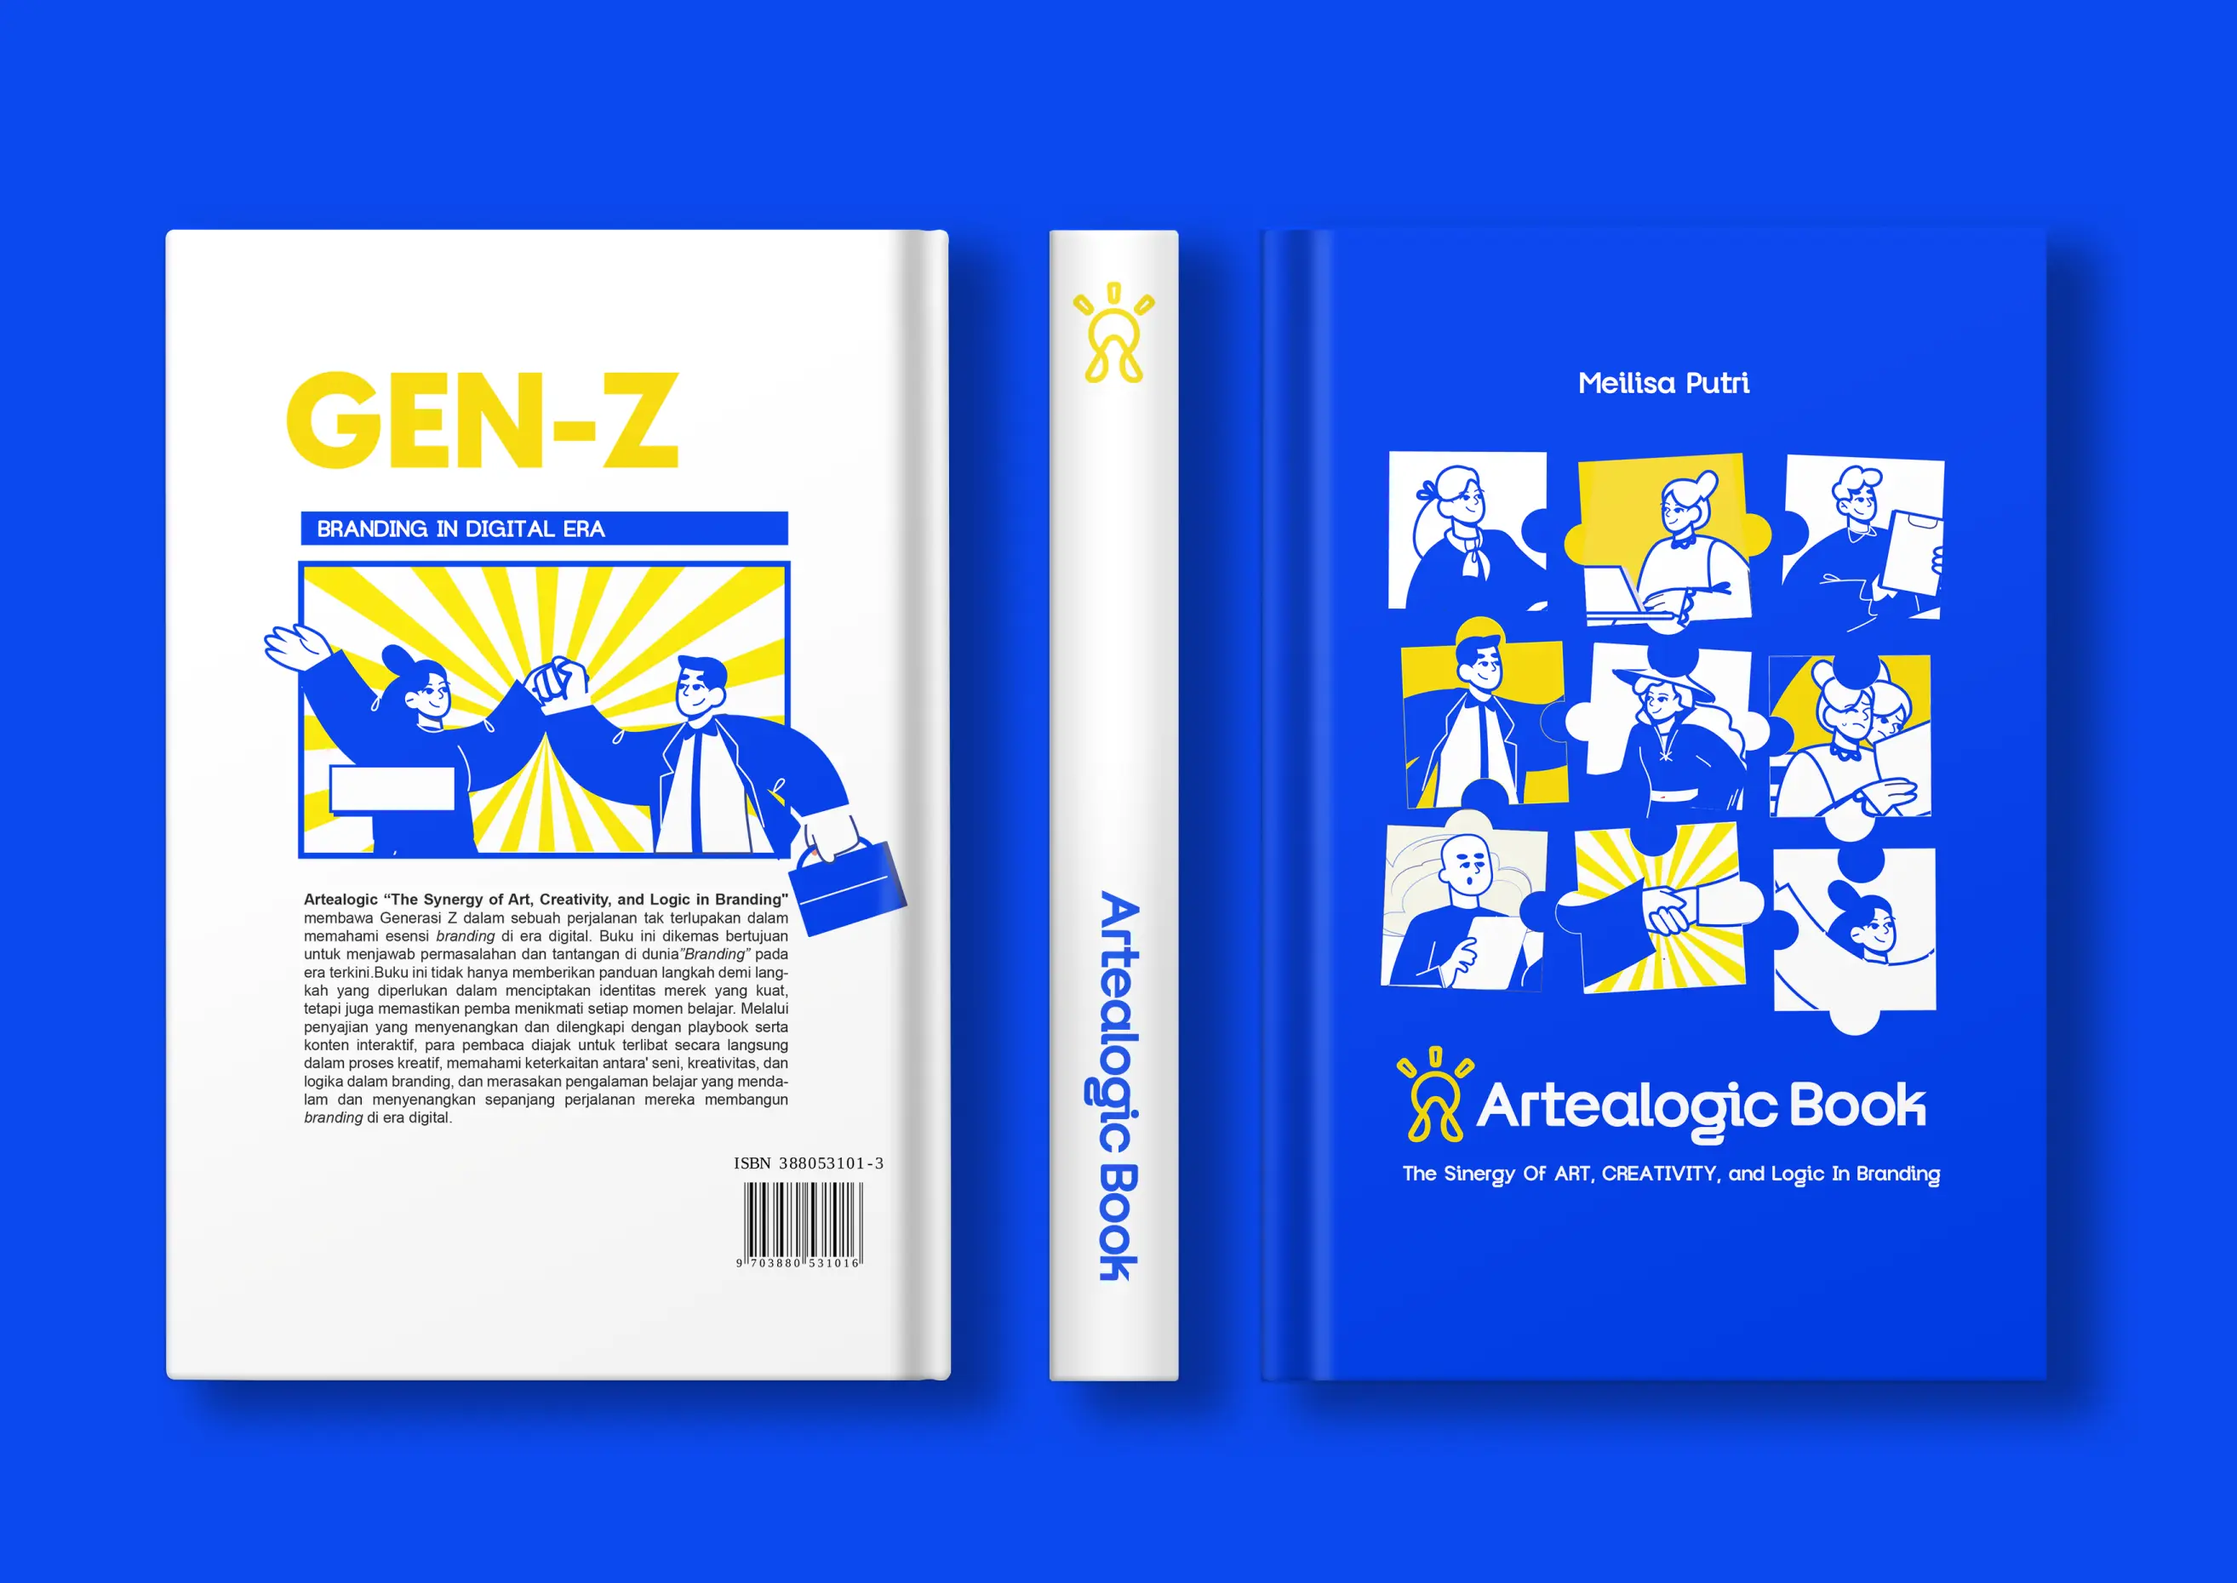
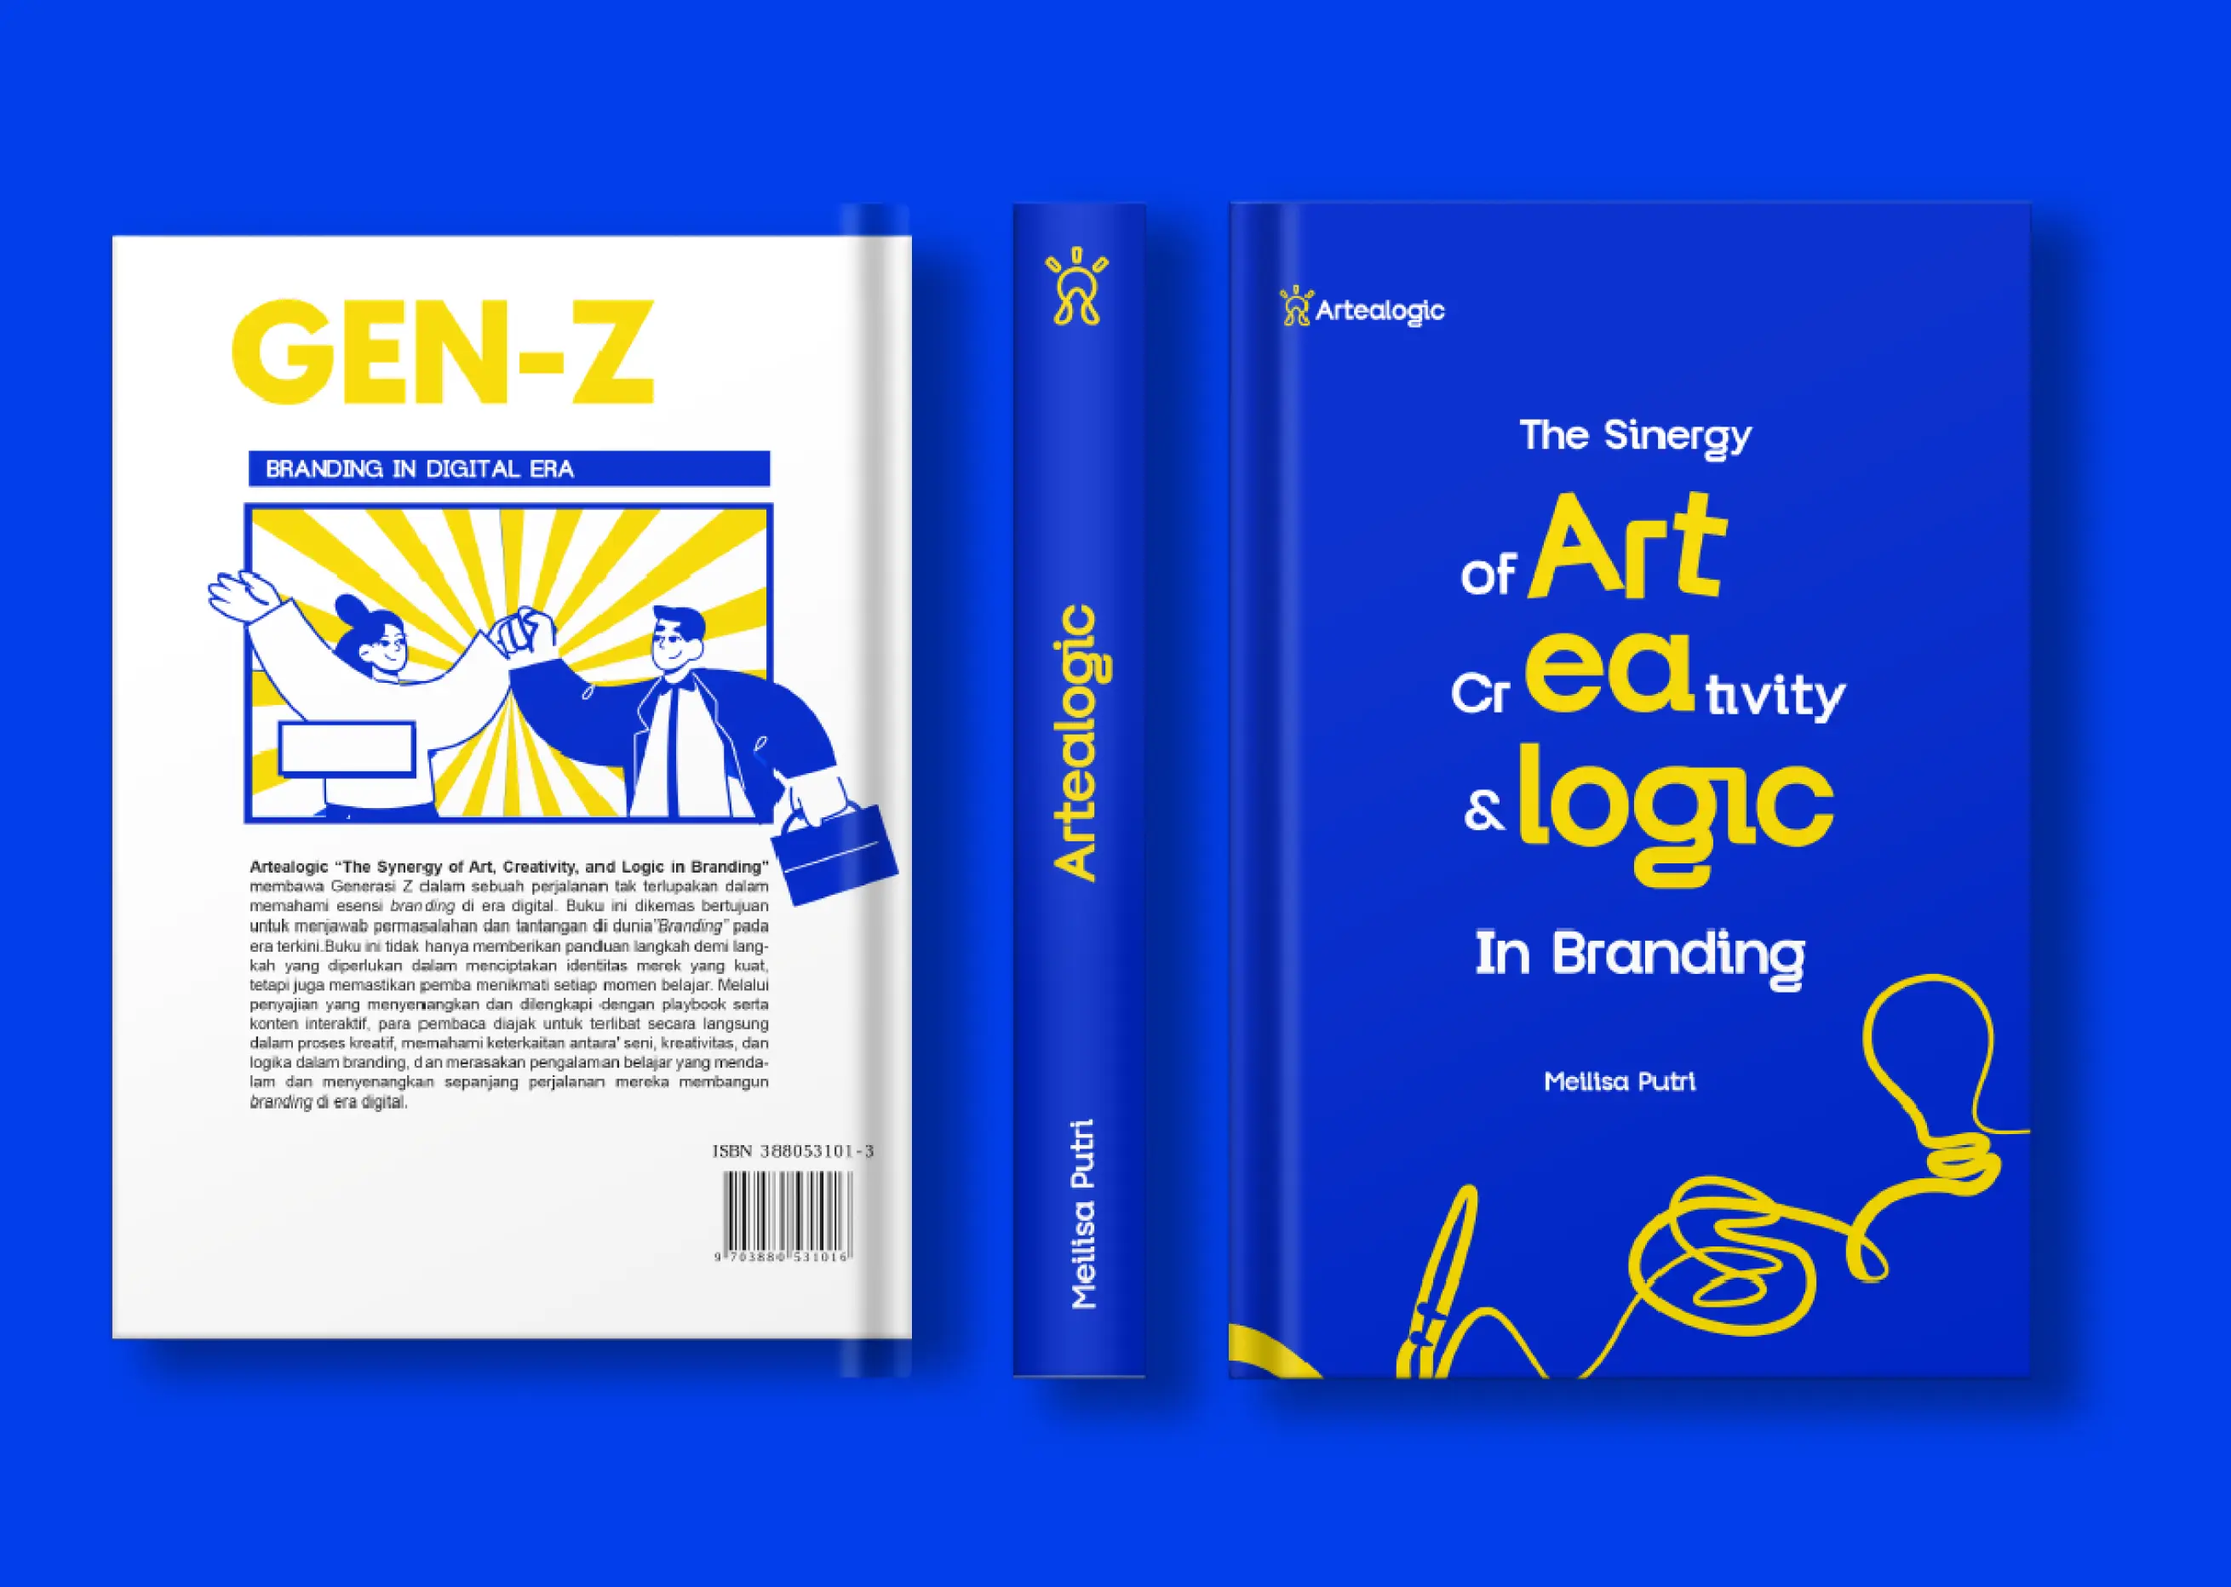
Change book picture

diff --git a/artealogic-book.html b/artealogic-book.html
@@ -1,112 +1,182 @@
 <!DOCTYPE html>
 <html lang="en">
-<head>
-    <meta charset="UTF-8">
-    <meta name="viewport" content="width=device-width, initial-scale=1.0">
+  <head>
+    <meta charset="UTF-8" />
+    <meta name="viewport" content="width=device-width, initial-scale=1.0" />
     <title>Artealogic Book | Artealogic</title>
-    <link rel="stylesheet" href="style.css">
-    <link rel="icon" href="img/icon.webp">
-</head>
-<body class="overflow-x-hidden font-article">
-    <nav class="flex items-center justify-between px-4 py-2 text-white md:px-12 xl:px-16 bg-blue font-leiden">
-        <a href="index.html">
-            <img src="img/logo-white.webp" alt="" class="w-28 md:w-40 lg:w-44">
-        </a>
+    <link rel="stylesheet" href="style.css" />
+    <link rel="icon" href="img/icon.webp" />
+  </head>
+  <body class="overflow-x-hidden font-article">
+    <nav
+      class="flex items-center justify-between px-4 py-2 text-white md:px-12 xl:px-16 bg-blue font-leiden"
+    >
+      <a href="index.html">
+        <img src="img/logo-white.webp" alt="" class="w-28 md:w-40 lg:w-44" />
+      </a>
 
-        <div class="items-center hidden gap-8 text-sm md:flex lg:gap-14">
-            <a href="index.html">HOME</a>
-            <a href="about.html">ABOUT</a>
-            <a href="works.html">WORKS</a>
-            <a href="perspective.html">PERSPECTIVE</a>
-        </div>
+      <div class="items-center hidden gap-8 text-sm md:flex lg:gap-14">
+        <a href="index.html">HOME</a>
+        <a href="about.html">ABOUT</a>
+        <a href="works.html">WORKS</a>
+        <a href="perspective.html">PERSPECTIVE</a>
+      </div>
 
-        <div class="md:hidden" id="burger">
-            <svg xmlns="http://www.w3.org/2000/svg" class="w-6 h-6" fill="none" viewBox="0 0 24 24"
-                stroke="currentColor">
-                <path stroke-linecap="round" stroke-linejoin="round" stroke-width="2" d="M4 6h16M4 12h16M4 18h16" />
-            </svg>
-        </div>
+      <div class="md:hidden" id="burger">
+        <svg
+          xmlns="http://www.w3.org/2000/svg"
+          class="w-6 h-6"
+          fill="none"
+          viewBox="0 0 24 24"
+          stroke="currentColor"
+        >
+          <path
+            stroke-linecap="round"
+            stroke-linejoin="round"
+            stroke-width="2"
+            d="M4 6h16M4 12h16M4 18h16"
+          />
+        </svg>
+      </div>
     </nav>
     <div id="menu" class="hidden my-4">
-        <div class="flex flex-col items-center gap-2 mb-4 text-sm">
-            <a href="index.html">HOME</a>
-            <a href="about.html">ABOUT</a>
-            <a href="works.html">WORKS</a>
-            <a href="perspective.html">PERSPECTIVE</a>
-        </div>
-        <hr/>
+      <div class="flex flex-col items-center gap-2 mb-4 text-sm">
+        <a href="index.html">HOME</a>
+        <a href="about.html">ABOUT</a>
+        <a href="works.html">WORKS</a>
+        <a href="perspective.html">PERSPECTIVE</a>
+      </div>
+      <hr />
     </div>
 
     <div class="px-4 mt-4 mb-20 md:mt-10 md:px-12 lg:px-16">
-        <button onclick="history.back()" class="mb-4">
-            <div class="flex items-center gap-2">
-                <img src="img/back.webp" alt="" class="w-2">
-                <h2 class="text-blue font-leidenRegular md:text-lg lg:text-xl">KEMBALI</h2>
-            </div>
-        </button>
-        
-        <img src="img/perspective/artealogic-book.webp" alt="" class="w-full">
+      <button onclick="history.back()" class="mb-4">
+        <div class="flex items-center gap-2">
+          <img src="img/back.webp" alt="" class="w-2" />
+          <h2 class="text-blue font-leidenRegular md:text-lg lg:text-xl">
+            KEMBALI
+          </h2>
+        </div>
+      </button>
 
-        <div class="mx-0 mt-10 lg:mx-12 xl:mx-32">
-            <h1 class="text-3xl md:text-5xl lg:text-6xl font-leiden">MEMBAWA BRANDING KE LEVEL BERIKUTNYA DENGAN GEN-Z</h1>
-            <p class="my-4 lg:text-lg lg:my-8">
-                Dalam "Artealogic: The Synergy of Art, Creativity, and Logic in Branding," kami mengajak Generasi Z untuk menjalani perjalanan luar biasa dalam memahami esensi branding di tengah gemuruh era digital. Buku ini berfungsi sebagai kompas interaktif yang tidak hanya menyediakan panduan langkah demi langkah dalam menciptakan identitas merek yang kuat, tetapi juga menawarkan pengalaman belajar yang tak terlupakan.<br/><br/>
-                Dengan pendekatan penyajian yang menarik dan beragam, buku ini dilengkapi dengan playbook dan konten interaktif yang mendorong pembaca untuk terlibat langsung dalam proses kreatif. Sehingga, pembaca tidak hanya menjadi pemaham yang kompeten di bidang branding, tetapi juga merasakan setiap momen belajar dengan kegembiraan dan antusiasme.<br/><br/>
-                "Artealogic" mengajak pembaca untuk mengeksplorasi keterkaitan yang mendalam antara seni, kreativitas, dan logika dalam konteks branding. Dengan begitu, mereka tidak hanya membangun merek yang unggul di ranah digital, tetapi juga mengalami perjalanan pembelajaran yang menyenangkan sepanjang prosesnya. Dapatkan buku ini sekarang dan nikmati pengalaman belajar yang mendalam serta menyenangkan dalam membangun fondasi merek yang kokoh di dunia digital yang terus berubah ini.
-            </p>
-        </div>
-        <div class="flex flex-col justify-center gap-8 pt-8 md:flex-row">
-            <a href="https://wa.me/0811503976" target="_blank" class="py-3 text-white rounded-full px-14 font-articleBold md:text-lg bg-blue">
-                <div class="flex items-center justify-center gap-3">
-                    <img src="img/whatsapp.webp" alt="" class="w-6">
-                    <span class="pt-0.5 font-articleBold lg:text-lg">Beli Buku</span>
-                </div>
-            </a>
-            <a href="pdf/Artealogic Books.pdf" download class="px-8 py-3 text-white rounded-full font-articleBold md:text-lg bg-blue">
-                <div class="flex items-center justify-center gap-2">
-                    <img src="img/download.webp" alt="" class="w-7">
-                    <span class="font-articleBold lg:text-lg">Download Demo</span>
-                </div>
-            </a>
-        </div>
+      <img src="img/perspective/artealogic-book-2.webp" alt="" class="w-full" />
+
+      <div class="mx-0 mt-10 lg:mx-12 xl:mx-32">
+        <h1 class="text-3xl md:text-5xl lg:text-6xl font-leiden">
+          MEMBAWA BRANDING KE LEVEL BERIKUTNYA DENGAN GEN-Z
+        </h1>
+        <p class="my-4 lg:text-lg lg:my-8">
+          Dalam "Artealogic: The Synergy of Art, Creativity, and Logic in
+          Branding," kami mengajak Generasi Z untuk menjalani perjalanan luar
+          biasa dalam memahami esensi branding di tengah gemuruh era digital.
+          Buku ini berfungsi sebagai kompas interaktif yang tidak hanya
+          menyediakan panduan langkah demi langkah dalam menciptakan identitas
+          merek yang kuat, tetapi juga menawarkan pengalaman belajar yang tak
+          terlupakan.<br /><br />
+          Dengan pendekatan penyajian yang menarik dan beragam, buku ini
+          dilengkapi dengan playbook dan konten interaktif yang mendorong
+          pembaca untuk terlibat langsung dalam proses kreatif. Sehingga,
+          pembaca tidak hanya menjadi pemaham yang kompeten di bidang branding,
+          tetapi juga merasakan setiap momen belajar dengan kegembiraan dan
+          antusiasme.<br /><br />
+          "Artealogic" mengajak pembaca untuk mengeksplorasi keterkaitan yang
+          mendalam antara seni, kreativitas, dan logika dalam konteks branding.
+          Dengan begitu, mereka tidak hanya membangun merek yang unggul di ranah
+          digital, tetapi juga mengalami perjalanan pembelajaran yang
+          menyenangkan sepanjang prosesnya. Dapatkan buku ini sekarang dan
+          nikmati pengalaman belajar yang mendalam serta menyenangkan dalam
+          membangun fondasi merek yang kokoh di dunia digital yang terus berubah
+          ini.
+        </p>
+      </div>
+      <div class="flex flex-col justify-center gap-8 pt-8 md:flex-row">
+        <a
+          href="https://wa.me/0811503976"
+          target="_blank"
+          class="py-3 text-white rounded-full px-14 font-articleBold md:text-lg bg-blue"
+        >
+          <div class="flex items-center justify-center gap-3">
+            <img src="img/whatsapp.webp" alt="" class="w-6" />
+            <span class="pt-0.5 font-articleBold lg:text-lg">Beli Buku</span>
+          </div>
+        </a>
+        <a
+          href="pdf/Artealogic Books.pdf"
+          download
+          class="px-8 py-3 text-white rounded-full font-articleBold md:text-lg bg-blue"
+        >
+          <div class="flex items-center justify-center gap-2">
+            <img src="img/download.webp" alt="" class="w-7" />
+            <span class="font-articleBold lg:text-lg">Download Demo</span>
+          </div>
+        </a>
+      </div>
     </div>
 
     <footer class="text-white bg-blue font-articleLight">
-        <div class="p-4 md:p-16">
-            <img src="img/logo-white.webp" alt="" class="w-40 md:w-52">
-            
-            <div class="flex grid-cols-2 gap-16 pt-8 md:grid md:gap-0">
-                <div class="flex items-center gap-0 md:gap-32">
-                    <div class="flex-col hidden gap-4 md:flex">
-                        <a href="about.html">About</a>
-                        <a href="works.html">Works</a>
-                        <a href="perspective.html">Perspective</a>
-                    </div>
+      <div class="p-4 md:p-16">
+        <img src="img/logo-white.webp" alt="" class="w-40 md:w-52" />
 
-                    <div class="flex flex-col gap-4">
-                        <p class="font-articleBold">Reach us</p>
-                        <a href="https://instagram.com/artealogic?igshid=YTQwZjQ0NmI0OA%3D%3D&utm_source=qr" class="text-sm md:text-base" target="_blank">Instagram</a>
-                        <a href="https://www.behance.net/artealobrandin" class="text-sm md:text-base" target="_blank">Behance</a>
-                        <a href="https://www.facebook.com/profile.php?id=61554681953296" class="text-sm md:text-base" target="_blank">Facebook</a>
-                        <a href="https://dribbble.com/Artealogicc" class="text-sm md:text-base" target="_blank">Dribbble</a>
-                    </div>
-                </div>
-
-                <div class="flex flex-col gap-4 pl-0 md:pl-20 lg:pl-0">
-                    <p class="font-articleBold">Business Inquiries</p>
-                    <a href="https://wa.me/0811503976" target="_blank" class="flex items-center gap-2">
-                        <img src="img/whatsapp.webp" alt="" class="w-6">
-                        <span class="text-sm md:text-base">+62 811503976</span>
-                    </a>
-                    <a href="mailto:artealogic@gmail.com" target="_blank" class="flex items-center gap-2">
-                        <img src="img/email.webp" alt="" class="w-6">
-                        <span class="text-sm md:text-base">artealogic@gmail.com</span>
-                    </a>
-                </div>
+        <div class="flex grid-cols-2 gap-16 pt-8 md:grid md:gap-0">
+          <div class="flex items-center gap-0 md:gap-32">
+            <div class="flex-col hidden gap-4 md:flex">
+              <a href="about.html">About</a>
+              <a href="works.html">Works</a>
+              <a href="perspective.html">Perspective</a>
             </div>
+
+            <div class="flex flex-col gap-4">
+              <p class="font-articleBold">Reach us</p>
+              <a
+                href="https://instagram.com/artealogic?igshid=YTQwZjQ0NmI0OA%3D%3D&utm_source=qr"
+                class="text-sm md:text-base"
+                target="_blank"
+                >Instagram</a
+              >
+              <a
+                href="https://www.behance.net/artealobrandin"
+                class="text-sm md:text-base"
+                target="_blank"
+                >Behance</a
+              >
+              <a
+                href="https://www.facebook.com/profile.php?id=61554681953296"
+                class="text-sm md:text-base"
+                target="_blank"
+                >Facebook</a
+              >
+              <a
+                href="https://dribbble.com/Artealogicc"
+                class="text-sm md:text-base"
+                target="_blank"
+                >Dribbble</a
+              >
+            </div>
+          </div>
+
+          <div class="flex flex-col gap-4 pl-0 md:pl-20 lg:pl-0">
+            <p class="font-articleBold">Business Inquiries</p>
+            <a
+              href="https://wa.me/0811503976"
+              target="_blank"
+              class="flex items-center gap-2"
+            >
+              <img src="img/whatsapp.webp" alt="" class="w-6" />
+              <span class="text-sm md:text-base">+62 811503976</span>
+            </a>
+            <a
+              href="mailto:artealogic@gmail.com"
+              target="_blank"
+              class="flex items-center gap-2"
+            >
+              <img src="img/email.webp" alt="" class="w-6" />
+              <span class="text-sm md:text-base">artealogic@gmail.com</span>
+            </a>
+          </div>
         </div>
+      </div>
     </footer>
 
     <script src="js/script.js"></script>
-</body>
+  </body>
 </html>
